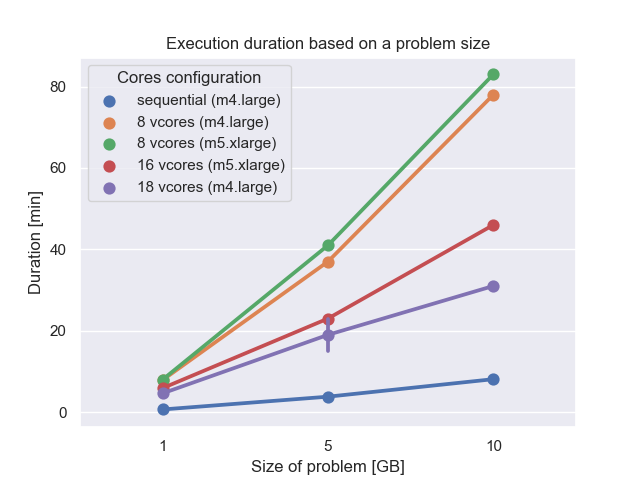
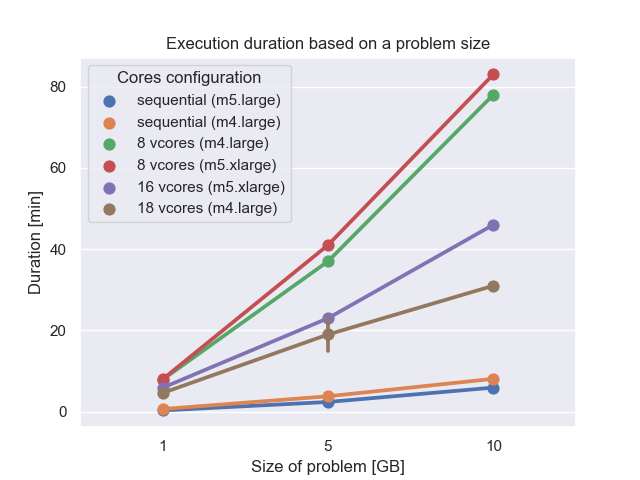
[lab04] results and plotters

diff --git a/lab05/plotter.py b/lab05/plotter.py
@@ -6,7 +6,8 @@ prices = {'18 vcores (m4.large)': 0.1 * 18,
           '8 vcores (m4.large)': 0.1 * 8,
           '8 vcores (m5.xlarge)': 0.195 * 8,
           '16 vcores (m5.xlarge)': 0.195 * 16,
-          'sequential (m4.large)': 0.1 * 1}
+          'sequential (m4.large)': 0.1 * 1,
+          'sequential (m5.large)': 0.195 * 1}
 
 # m4.large 1
 # m4.large 4
@@ -46,16 +47,29 @@ d = pd.DataFrame([
 ])
 
 custom = pd.DataFrame([
+    {'size': 1, 'time': 0.32404, 'alg': 'custom', 'cores': 'sequential (m5.large)'},
+    {'size': 1, 'time': 0.3255, 'alg': 'custom', 'cores': 'sequential (m5.large)'},
+    {'size': 1, 'time': 0.32289, 'alg': 'custom', 'cores': 'sequential (m5.large)'},
     {'size': 1, 'time': 0.4573, 'alg': 'custom', 'cores': 'sequential (m4.large)'},
     {'size': 1, 'time': 1.052, 'alg': 'custom', 'cores': 'sequential (m4.large)'},
     {'size': 1, 'time': 0.5511, 'alg': 'custom', 'cores': 'sequential (m4.large)'},
     {'size': 1, 'time': 0.5587, 'alg': 'custom', 'cores': 'sequential (m4.large)'},
+    {'size': 5, 'time': 2.3996, 'alg': 'custom', 'cores': 'sequential (m5.large)'},
+    {'size': 5, 'time': 2.39456, 'alg': 'custom', 'cores': 'sequential (m5.large)'},
     {'size': 5, 'time': 3.55877, 'alg': 'custom', 'cores': 'sequential (m4.large)'},
     {'size': 5, 'time': 4.0321, 'alg': 'custom', 'cores': 'sequential (m4.large)'},
+    {'size': 10, 'time': 5.9326, 'alg': 'custom', 'cores': 'sequential (m5.large)'},
+    {'size': 10, 'time': 5.5393, 'alg': 'custom', 'cores': 'sequential (m5.large)'},
     {'size': 10, 'time': 8.6133, 'alg': 'custom', 'cores': 'sequential (m4.large)'},
     {'size': 10, 'time': 7.57464, 'alg': 'custom', 'cores': 'sequential (m4.large)'},
 ])
 df = pd.concat([custom, b, c, d, a])
+
+sizes = {
+    1: 0.32,
+    5: 2.39,
+    10: 5.62
+}
 
 
 def cost():
@@ -63,11 +77,11 @@ def cost():
     # df['cost'] = prices[df['cores']] * (df['time'] / 60)
     result = df.groupby(['size', 'cores']).mean()
     # s = result.style.highlight_min(color='red', axis=1).highlight_max(color='lightgreen', axis=1)
-    s = result.style.highlight_max(
-        props='cellcolor:{yellow}; color:{red};'
-              'textit:--rwrap; textbf:--rwrap;'
-    )
-    print(s.to_latex())
+    # s = result.style.highlight_max(
+    #     props='cellcolor:{yellow}; color:{red};'
+    #           'textit:--rwrap; textbf:--rwrap;'
+    # )
+    print(result.to_latex())
 
 
 def plot():
@@ -83,7 +97,9 @@ def plot():
 
     plt.show()
 
-    df['speed up'] = 0.52 / df['time']
+    df['speed up'] = [sizes[size] / time for size, time in df[['size', 'time']].values]
+    # df['speed up'] = df.apply(lambda row: sizes[row['size']] / row['time'])
+        # 0.52 / df['size' == 1]['time']
     ax = sns.pointplot(x="cores", y="speed up", data=df,
                        hue='size', legend='full', ci='sd')
     # ax.set(yscale="log")
@@ -107,4 +123,4 @@ def plot():
 
 if __name__ == '__main__':
     cost()
-    plot()
+    # plot()
